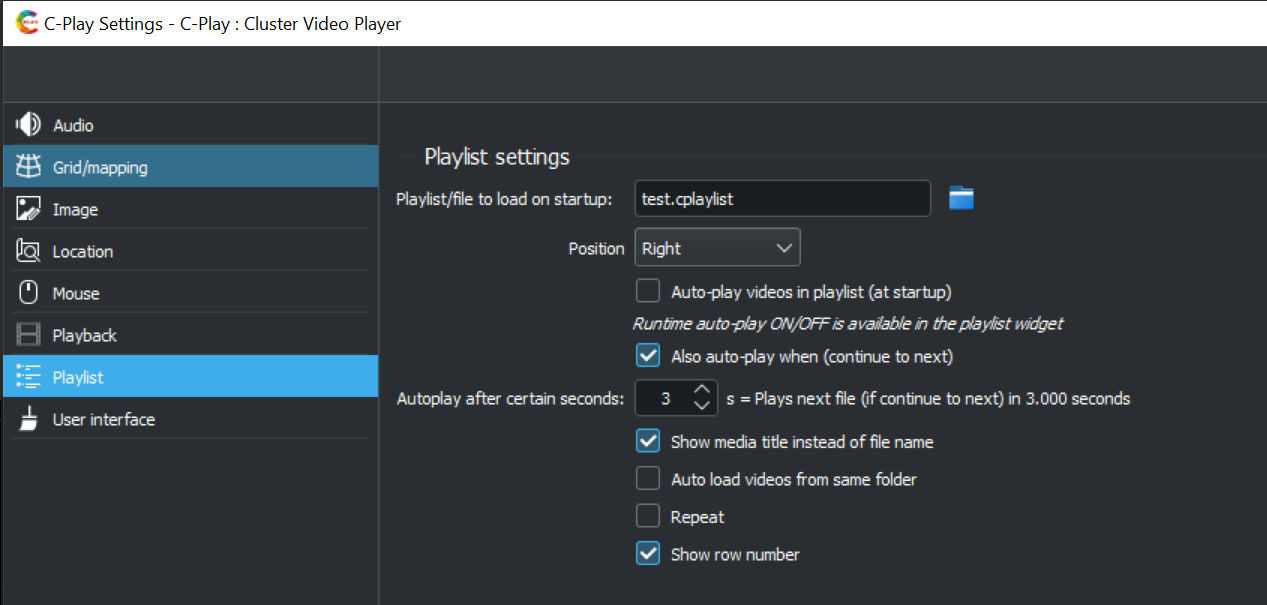
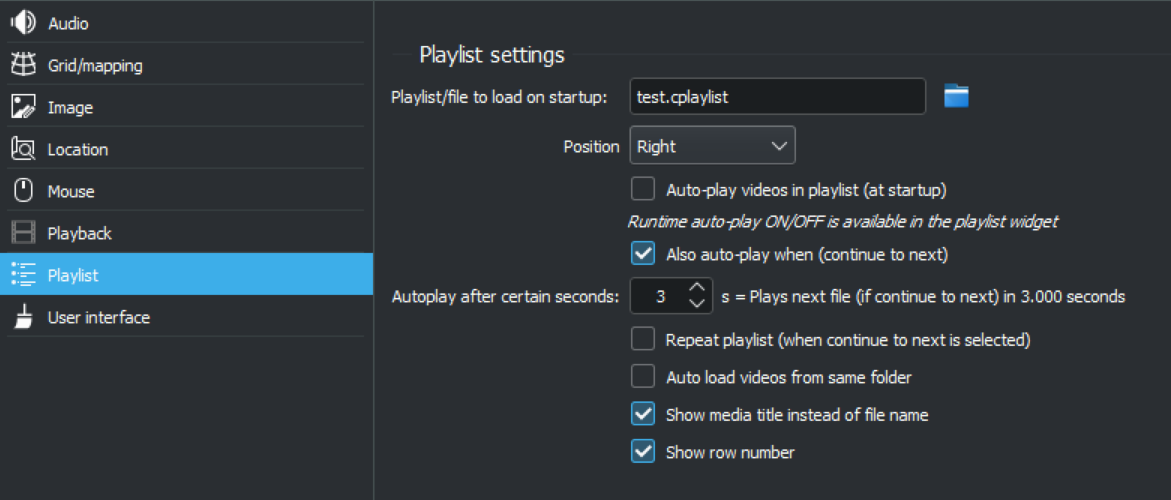
Updateds docs setup, for the rest of the settings.

Changed region(s): [[0.0, 0.18, 0.9838, 0.93], [0.0, 0.0, 1.0, 0.15], [0.3074, 0.15, 0.8301, 0.24]]

diff --git a/src/qml/Settings/PlaylistSettings.qml b/src/qml/Settings/PlaylistSettings.qml
@@ -160,10 +160,10 @@ SettingsBasePage {
 
         Item { width: 1; height: 1 }
         CheckBox {
-            checked: PlaylistSettings.showMediaTitle
-            text: qsTr("Show media title instead of file name")
+            checked: PlaylistSettings.repeat
+            text: qsTr("Repeat playlist (when continue to next is selected)")
             onCheckStateChanged: {
-                PlaylistSettings.showMediaTitle = checked
+                PlaylistSettings.repeat = checked
                 PlaylistSettings.save()
             }
         }
@@ -180,10 +180,10 @@ SettingsBasePage {
 
         Item { width: 1; height: 1 }
         CheckBox {
-            checked: PlaylistSettings.repeat
-            text: qsTr("Repeat")
+            checked: PlaylistSettings.showMediaTitle
+            text: qsTr("Show media title instead of file name")
             onCheckStateChanged: {
-                PlaylistSettings.repeat = checked
+                PlaylistSettings.showMediaTitle = checked
                 PlaylistSettings.save()
             }
         }

diff --git a/docs/guides/setup/video.md b/docs/guides/setup/video.md
@@ -28,15 +28,33 @@ Each configuration folder can contain up to three different JSON files:
 
 The *all.json* should include option you would like C-Play to utilize on both master and clients/nodes. An respectivly, you can set settings for only the master or only the clients/nodes in the other two files.
 
+The various configuration that C-Play ship with can be found [here](https://github.com/c-toolbox/C-Play/tree/master/data/mpv-conf), for reference.
+
 All the different mpv options can be found [here](https://mpv.io/manual/stable/).
 
-## CPU vs GPU
+### CPU vs GPU
 
 As noticed by the included bunch of configurations, there is some that are named "*_gpu*" and some(one) named "*_cpu*". MPV is a diverse and powerful media player that can take advantage of a high-end cpu system (by defining thread usage in the configuration file) or high-end gpu:s by selecting a decoding library of your choice.
 
 It should be noted, that when you select that you prefer to use a GPU decoding library, does libraries are often more limited in terms of supported formats and resolutions.
 
 However, should you load a video file that is not supported by the GPU to be decoded, MPV automatically tries to utilize the CPU to decode it if the GPU says it can't.
+
+### Time sync vs Display sync
+
+By default, the MPV playback engine time the video frames to the audio, and then everything is synced against the system clock. If no audio is present (as is the usual case for the nodes), system clock is also default method for syncing. As you normally, you would have a domain NTP (Network Time Protocol), which hopefully i setup in such away that the computers in the cluster do not differ in time buy many milliseconds, and the default mode should work fine.
+
+However, as a cluster setup usually requires frame-syncing to avoid tearing, we could ideally use a timer based on the display rate, instead of the system clock for our playback timing.
+
+The MPV configuration named *"decoding_gpu_nvdec_video_sync"* does showcase the settings needed to enabled this. As seen in the config, there is two interesting options: 
+
+1) *"video-sync": "display-resample"*
+
+This line tells MPV to resample the audio to match the display rate, opposite of the default behaviour.
+
+2) *"display-fps-override": "59.94"*
+
+As usually the nodes are frame-synced, but not the master. Does, we want to tell all instances to use the refresh-rate of the syncronized displays, even the master, such that the timing between master and nodes is the same. You could override only on the master, and let the nodes use a detected value, if desired, but in the included example we override all.
  
 ## H264 vs H265
 

diff --git a/docs/guides/settings/grid.md b/docs/guides/settings/grid.md
@@ -7,3 +7,9 @@ parent: Settings
 # Grid/mapping settings
 
 ![Grid/mapping settings](../../assets/ui/settings/grid.png) 
+
+The grid/mapping settings within C-Play handles the objects where texture mapping occur on for all media, where objects such as planes (for flat media), dome (fulldome/fisheye content) and sphere (for equirectangular and equi-cubemaps) are used for media with various projections.
+
+As seen, you need to starndardize where the normal plane for showcasing flat media should be, as well as how big the dome and/or sphere should be that we map that media on.
+
+As seen, there is and *"Alternative Transistion Scenario"*, which can be set which will transisition/scale the dome and/or sphere to anoter mode. Thus we could actually map a media inside of a sphere and place the camera (ourself) inside of it, and then move outwards of the sphere to see the mapping of it from the outside. Whenever new media with another *"Grid mode"* is loaded, for instance loading a dome movies after a spherical movie, these values are reset to standard startup values.

diff --git a/docs/guides/settings/playlist.md b/docs/guides/settings/playlist.md
@@ -7,3 +7,11 @@ parent: Settings
 # Playlist settings
 
 ![Playlist settings](../../assets/ui/settings/playlist.png) 
+
+The playlist settings within C-Play let you choose a startup file playlist. In practice, this could even be a media file that is played as well, but that is not the intended use.
+
+You can also decided on which side you want the playlist and section interface to located.
+
+*Auto-play* can be set as default in this setting (at startup), however it can also be controlled during runtime from the playlist interface. Also decide how many seconds after a file has been loaded that play should start. Depending on your system, the files might take some time to load on all nodes, so this time should (at least) reflect that time that you need to wait for loading to be complete.
+
+The *"Auto load vides from same folder"* is disabled by default, and should only be used in special cases. If enabled, it will load all media files in that folder, clear the current playlist and put all these new files into an ordered playlist.

diff --git a/docs/guides/settings/audio.md b/docs/guides/settings/audio.md
@@ -7,3 +7,15 @@ parent: Settings
 # Audio settings
 
 ![Audio settings](../../assets/ui/settings/audio.png) 
+
+The audio settings within C-Play let's you choose audio output, trhrough either a found device or a using a specific audio driver.
+
+If the *"Use custom audio output*" is not selected, it utilizes the system default. When selected, the first choice is to try and detect a JACK device, but the drop-down list should also include devices located on the system. In some cases trying to find an audio driver instead of an device is preferred, but targeting a device solves most use cases.
+
+For more knowledge into use multi-channel audio, such as JACK on your system, see the
+[Audio configuration guide](../setup/audio.md).
+
+In this settings dialog you can also alter the startup volume, and steps size for volume in the UI.
+
+Also, you could choose to indicate the preferred track language or ID, if the video files include tracks. However, this is a general setting that mostly should be ignored.
+

diff --git a/docs/guides/settings/image.md b/docs/guides/settings/image.md
@@ -7,3 +7,11 @@ parent: Settings
 # Image settings
 
 ![Image settings](../../assets/ui/settings/image.png) 
+
+The image settings within C-Play revolve primarily in choosing the background and/or foreground image, which can be used behind and above the standard general media loading/playback, usually access through "*Open File*" or in a playlist.
+
+At startup, the background is loaded, while the foreground is hidden.
+
+As it is not normal to change background or foreground, as this it ment to be standardized use in your environment, you change these only in this setting. So remember do not save these if it not attended to be default at next startup.
+
+You can also change the image contrast, brightness, gamma and saturation. This is intended to be used for images/video loaded by the user, to find a system setting. These values will never be saved for use in next startup, as it's more intended to let you test content changes in your environment, more then to be an overall setting.

diff --git a/docs/guides/settings/playback.md b/docs/guides/settings/playback.md
@@ -7,3 +7,10 @@ parent: Settings
 # Playback settings
 
 ![Playback settings](../../assets/ui/settings/playback.png) 
+
+The playback settings within C-Play handles timing of fades, loops and seeks as well indicate which MPV configuration has been loaded and what it contains.
+
+What time the fade up/down should take is all very user dependent, while the time sync settings very much depend on how powerful your computer setup is.
+
+For more knowledge into what changes in mpv configuration can affect playback, see the
+[Video configuration guide](../setup/video.md).

diff --git a/docs/setup.md b/docs/setup.md
@@ -15,11 +15,11 @@ However, we have a perfect additional system for that, called [C-Troll](https://
 
 Thus, C-Play could be launched on multiple machines with various configuration utilizing C-Troll as the start/stop program utility.
 
-## Cluster configuration (through SGCT)
- - [Cluster configuration](guides/setup/sgct)
-
 ## Video configuration
  - [Video configuration](guides/setup/video)
 
 ## Audio configuration
  - [Audio configuration](guides/setup/audio)
+
+ ## Cluster configuration (through SGCT)
+ - [Cluster configuration](guides/setup/sgct)
